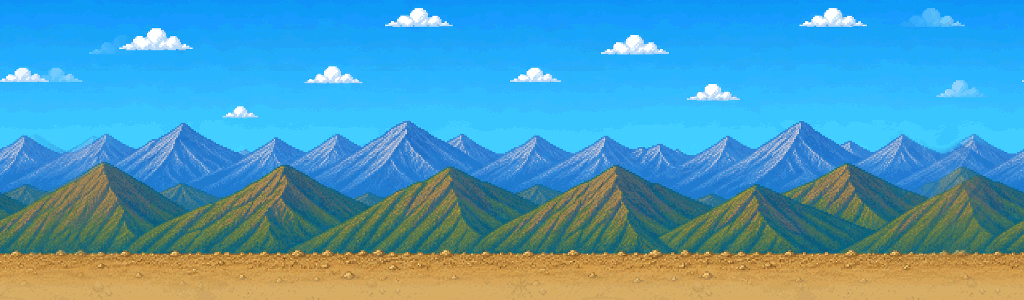
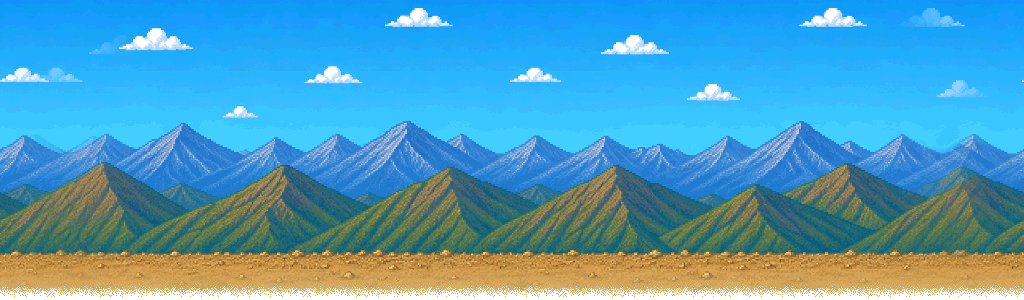
feat(game): updated header image for cleaner transition and removing duplicate text from the game

Changed region(s): [[0.0, 0.96, 1.0, 1.0]]

diff --git a/public/game/js/main.js b/public/game/js/main.js
@@ -92,10 +92,10 @@ function startNeverEndingGame (images) {
 		lastHudUpdateAt = now;
 		if (window.BikeFreeScores) window.BikeFreeScores.updateDistance(distanceTravelledInMetres);
 		infoBox.setLines([
-			'Bike Free',
+			// 'Bike Free',
 			infoBoxControls,
-			'Travelled ' + distanceTravelledInMetres + 'm',
-			'High Score: ' + highScore,
+			// 'Travelled ' + distanceTravelledInMetres + 'm',
+			// 'High Score: ' + highScore,
 			'Bikers left: ' + livesLeft
 		]);
 	}
@@ -186,10 +186,10 @@ function startNeverEndingGame (images) {
 
 	infoBox = new InfoBox({
 		initialLines : [
-			'Bike Free',
+			// 'Bike Free',
 			infoBoxControls,
-			'Travelled 0m',
-			'High Score: ' + highScore,
+			// 'Travelled 0m',
+			// 'High Score: ' + highScore,
 			'Bikers left: ' + livesLeft
 		],
 		position: {